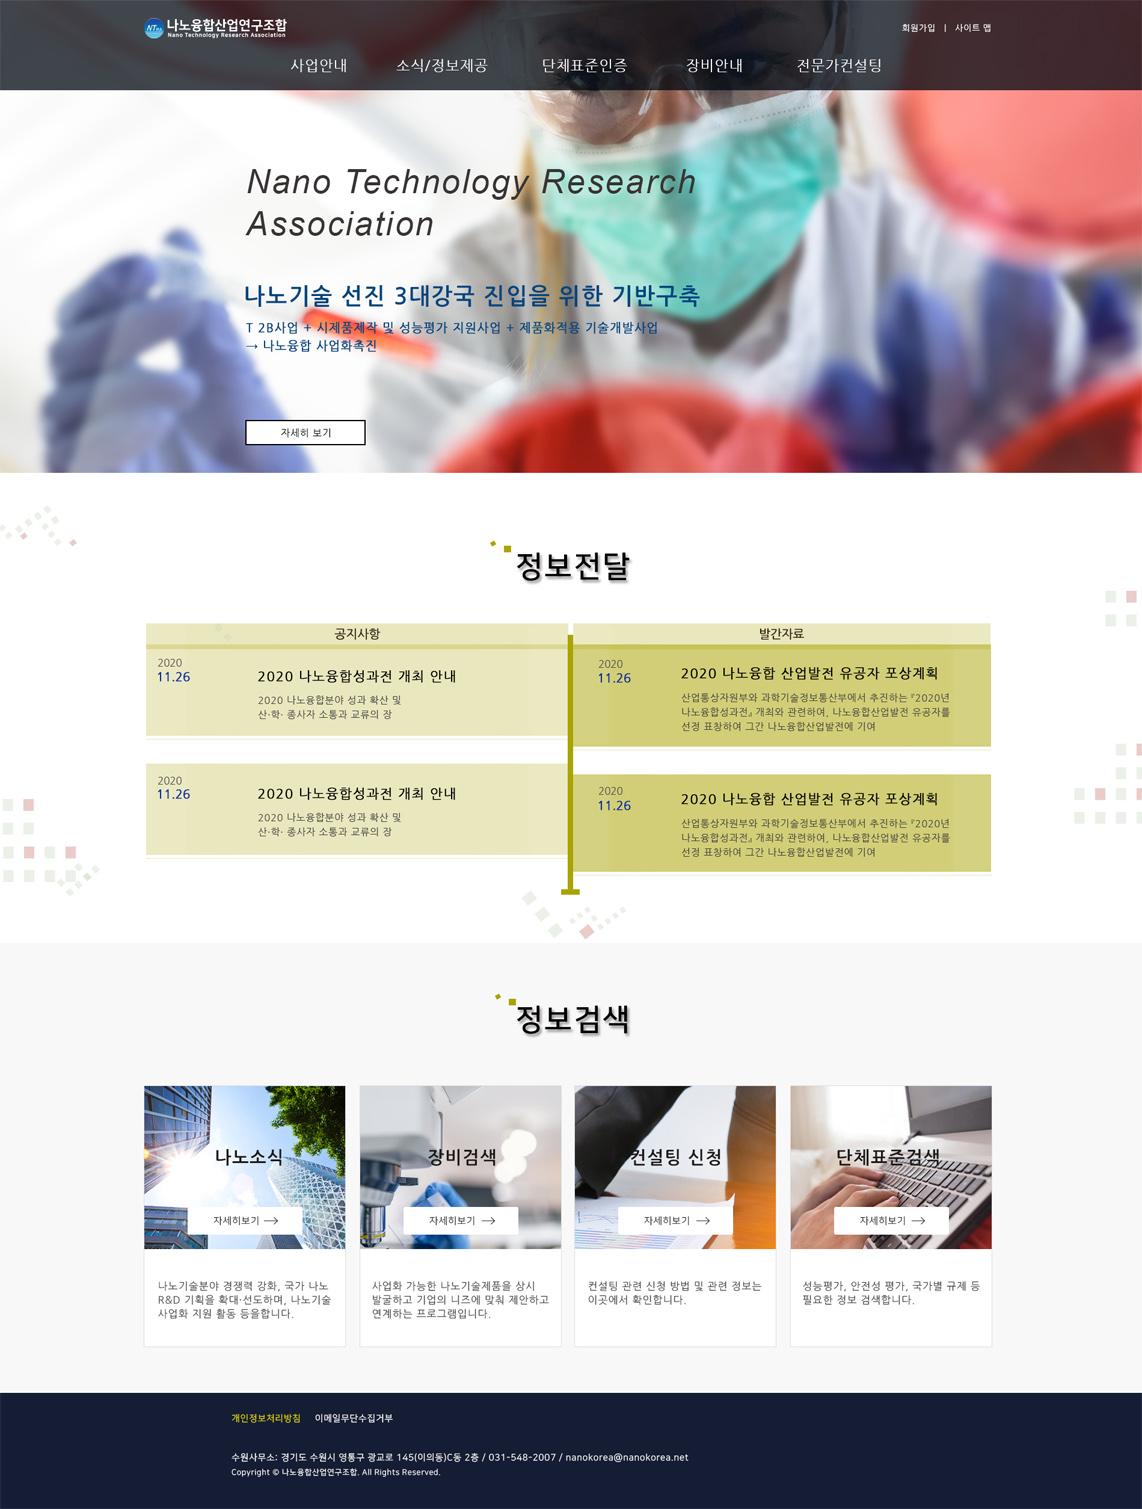
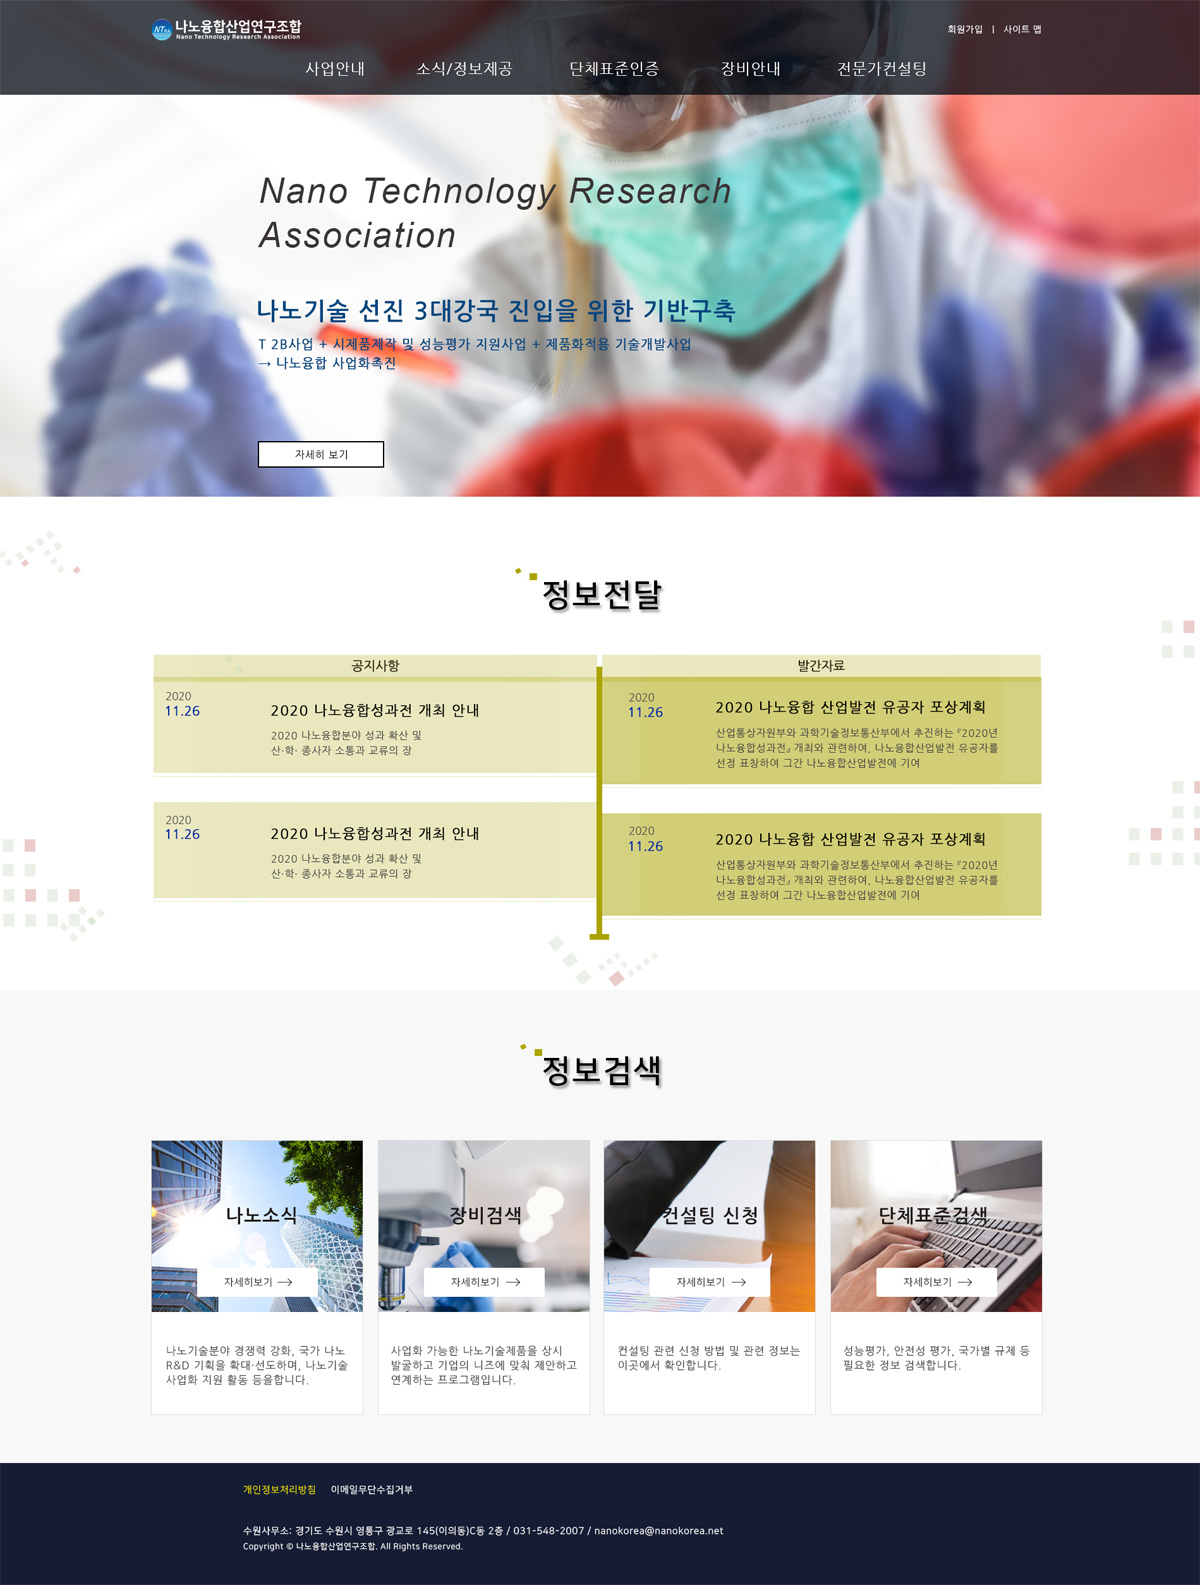
img
나노시안

Changed region(s): [[0.2452, 0.1869, 0.3371, 0.2492], [0.2452, 0.2803, 0.2758, 0.3115]]

diff --git a/index.htm b/index.htm
@@ -18,7 +18,7 @@
 <body>
 	<div style="width:100%;height:265px;border-bottom:1px solid #dcdcdc;margin-bottom:85px;">
 		<div style="width:503px;height:265px;margin:0 auto;">
-			<a href="/"><img src="img/nanoLogo.jpg" alt="" /></a>
+			<a style="margin-bottom:5px" href="/"><img src="img/nanoLogo.jpg" alt="" /></a>
 		</div>
 	</div>
 	<div id="myCarousel" class="carousel slide" data-ride="carousel" style="width:1200px;margin:0 auto;">
@@ -29,11 +29,11 @@
 		<div class="carousel-inner">
 			<div class="item active">
 				<span>#시안 1</span>
-				<img style="width:1140px;height:940px;border-top: 1px solid #000;" src="img/nano1.jpg" alt="" />
+				<img style="width:1200px;height:990px;border-top: 1px solid #000;" src="img/nano1.jpg" alt="" />
 			</div>
 			<div class="item">
 				<span>#시안 2</span>
-				<img style="width:1140px;height:1509px;border-top: 2px solid #000;" src="img/nano2.jpg" alt="" />
+				<img style="width:1200px;height:1585px;border-top: 2px solid #000;" src="img/nano2.jpg" alt="" />
 			</div>
 		</div>
 		<a class="left carousel-control" href="#myCarousel" data-slide="prev">
